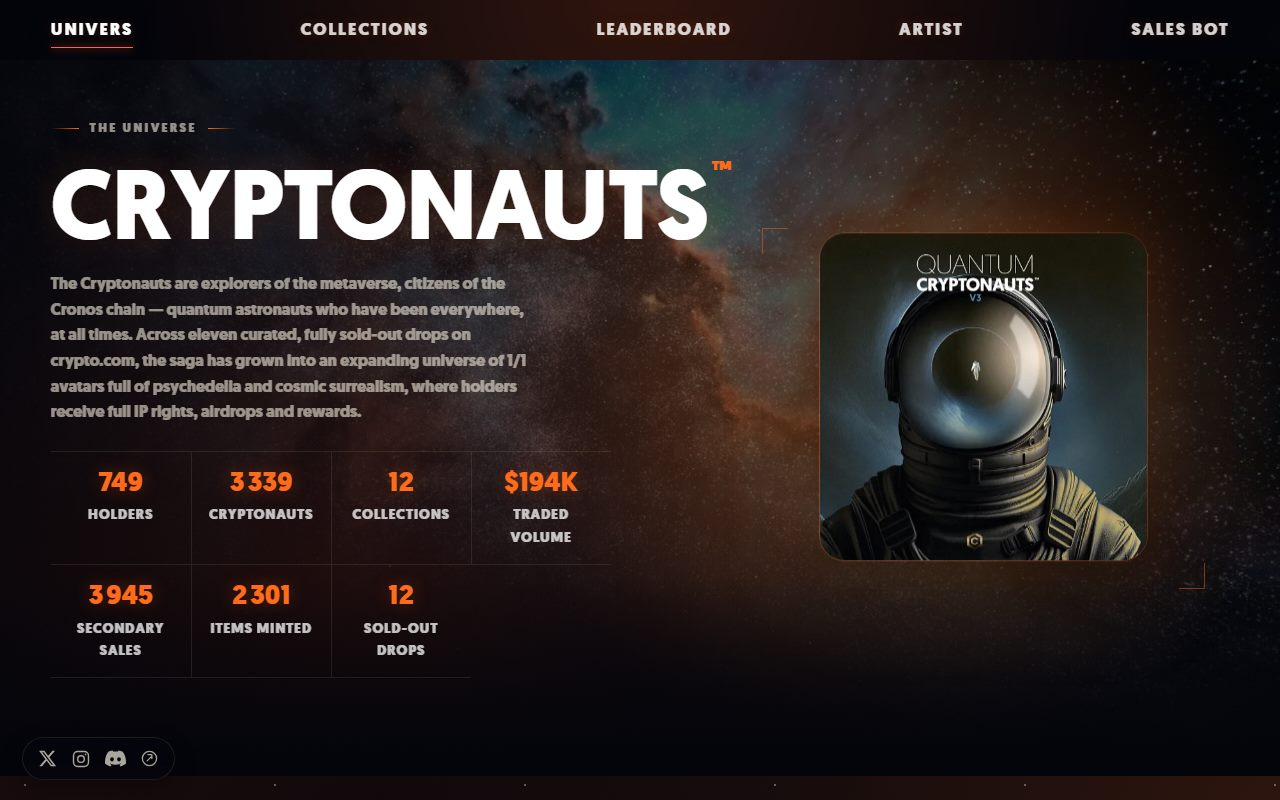
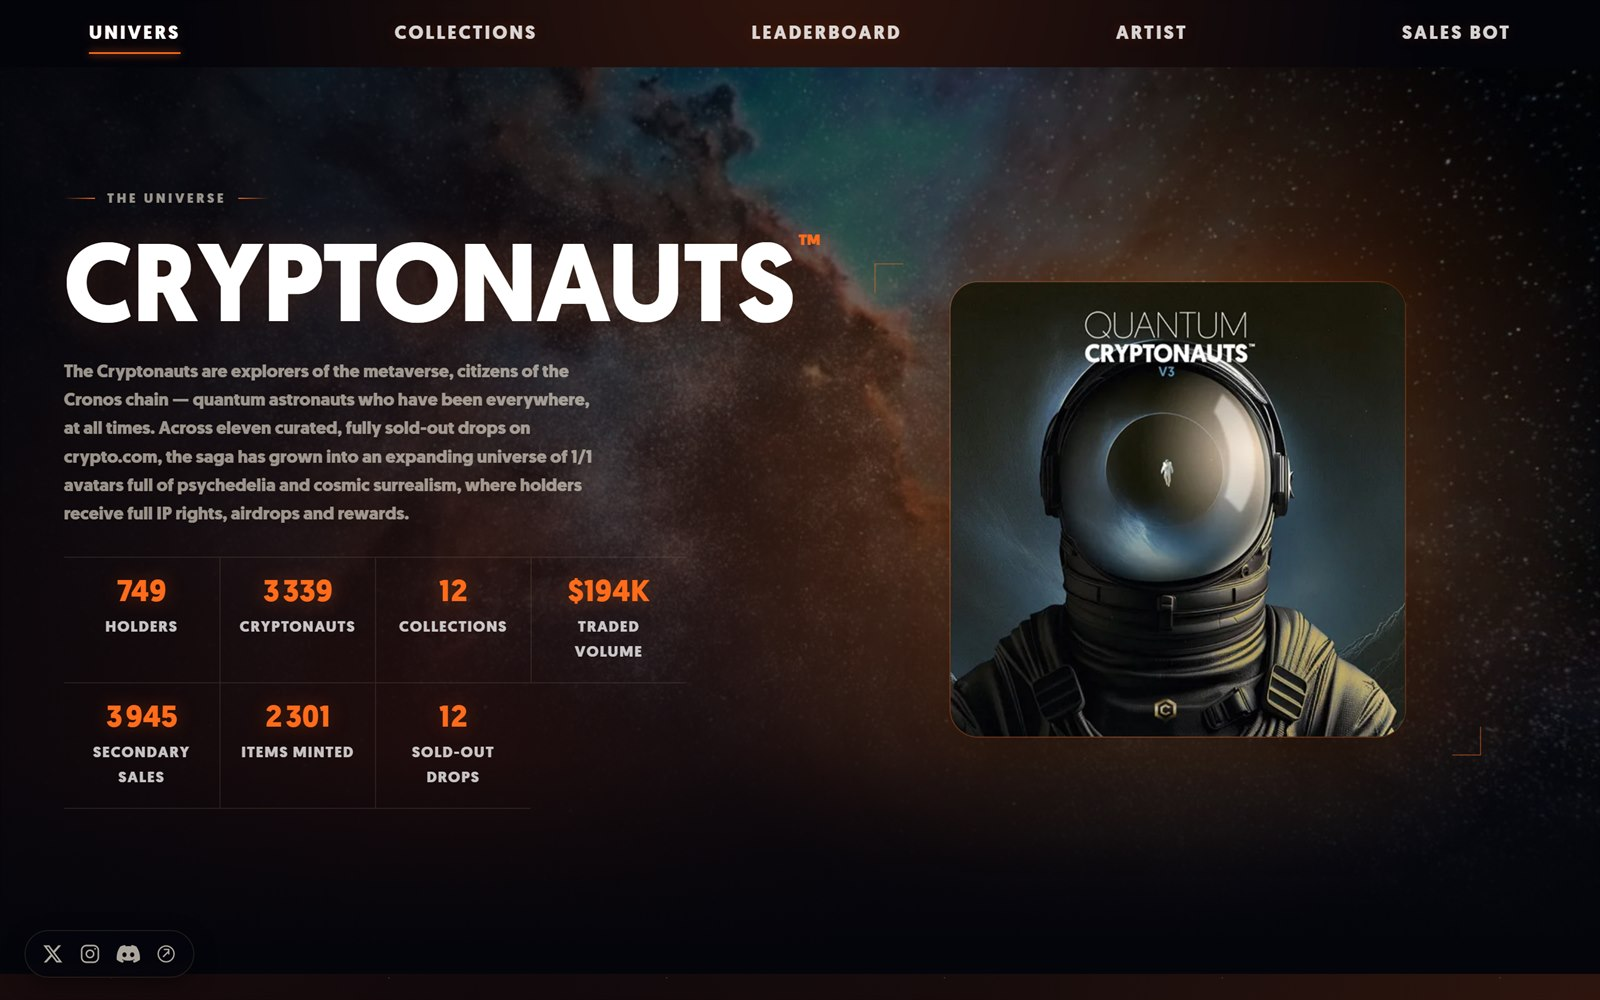
Vitrine : cadres plus realistes + captures haute resolution
- Navigateur : coins arrondis, cadenas dans la barre d'adresse, reflet.
- Telephone : frame iPhone realiste (dynamic island, boutons lateraux,
  reflet de verre, ombre douce), ratio 9/19.5.
- Images recapturees en 2x/3x (supersampling) puis reduites -> texte net
  (desktop 1600px, mobile 600px, ~100-200 Ko).

Claude-Session: https://claude.ai/code/session_0127Z73V9gsaBQEdmrtoZHUB

diff --git a/styles.css b/styles.css
@@ -1027,29 +1027,38 @@ a.project:hover .project-thumb::after, a.project:focus-visible .project-thumb::a
 .devices { position: relative; width: min(100%, 520px); margin-inline: auto; animation: scFloat 7s var(--ease) infinite; }
 
 .browser {
-  position: relative; border-radius: 14px; overflow: hidden;
-  background: linear-gradient(160deg, #18283f, #0b1422);
+  position: relative; border-radius: 13px; overflow: hidden;
+  background: linear-gradient(160deg, #1c2c44, #0b1422);
   border: 1px solid var(--border);
-  box-shadow: var(--shadow), 0 0 70px -22px rgba(56, 189, 248, 0.5);
+  box-shadow: var(--shadow), 0 0 70px -22px rgba(56, 189, 248, 0.45), inset 0 1px 0 rgba(255, 255, 255, 0.08);
 }
-.browser-bar { display: flex; align-items: center; gap: 6px; padding: 9px 12px; background: #0c1525; border-bottom: 1px solid var(--border-soft); }
-.browser-dot { width: 9px; height: 9px; border-radius: 50%; background: #2c4a72; }
+.browser-bar { position: relative; display: flex; align-items: center; gap: 7px; padding: 10px 13px; background: linear-gradient(180deg, #14223a, #0c1525); border-bottom: 1px solid var(--border-soft); }
+.browser-dot { width: 10px; height: 10px; border-radius: 50%; background: #2c4a72; box-shadow: inset 0 0 0 0.5px rgba(0, 0, 0, 0.25); }
 .browser-dot:nth-child(1) { background: #ff5f57; } .browser-dot:nth-child(2) { background: #febc2e; } .browser-dot:nth-child(3) { background: #28c840; }
-.browser-url { margin-left: 10px; font-family: var(--font-mono); font-size: 0.66rem; color: var(--text-muted); background: #0a1322; padding: 4px 14px; border-radius: 999px; max-width: 64%; overflow: hidden; text-overflow: ellipsis; white-space: nowrap; }
+.browser-url { display: inline-flex; align-items: center; gap: 6px; margin-left: 12px; font-family: var(--font-mono); font-size: 0.66rem; color: var(--text-muted); background: #0a1322; padding: 5px 16px; border-radius: 999px; max-width: 62%; overflow: hidden; text-overflow: ellipsis; white-space: nowrap; box-shadow: inset 0 0 0 1px rgba(255, 255, 255, 0.03); }
+.browser-url::before { content: ""; flex: none; width: 8px; height: 7px; border-radius: 2px; background: #35507a; box-shadow: 0 -3px 0 -1px transparent, inset 0 0 0 10px #35507a; -webkit-mask: radial-gradient(circle at 50% 2px, transparent 2.4px, #000 2.6px) top/100% 4px no-repeat, linear-gradient(#000 0 0) bottom/100% 4px no-repeat; mask: radial-gradient(circle at 50% 2px, transparent 2.4px, #000 2.6px) top/100% 4px no-repeat, linear-gradient(#000 0 0) bottom/100% 4px no-repeat; }
 .browser-screen { position: relative; aspect-ratio: 16 / 10; overflow: hidden; background: #070d18; }
 .browser-screen img { width: 100%; height: 100%; object-fit: cover; object-position: top center; display: block; }
+.browser-screen::after { content: ""; position: absolute; inset: 0; pointer-events: none; background: linear-gradient(120deg, rgba(255, 255, 255, 0.10) 0%, rgba(255, 255, 255, 0.03) 12%, transparent 26%); }
 
 .phone {
-  position: absolute; right: -4%; bottom: -13%; width: 26%; aspect-ratio: 9 / 19;
-  border-radius: 22px; padding: 6px;
-  background: linear-gradient(160deg, #1b2c47, #0a111f);
-  border: 1px solid var(--border);
-  box-shadow: 0 26px 50px -18px rgba(0, 0, 0, 0.75), 0 0 40px -16px rgba(99, 102, 241, 0.5);
+  position: absolute; right: -5%; bottom: -15%; width: 27.5%; aspect-ratio: 9 / 19.5;
+  border-radius: 12% / 5.6%; padding: 3.2%;
+  background: linear-gradient(145deg, #40485c 0%, #20252f 34%, #0c0f16 72%, #171b24 100%);
+  box-shadow: 0 34px 60px -20px rgba(0, 0, 0, 0.85), 0 8px 22px -10px rgba(0, 0, 0, 0.6),
+    inset 0 0 0 1px rgba(255, 255, 255, 0.10), inset 0 1.5px 1px rgba(255, 255, 255, 0.18);
   z-index: 3;
 }
-.phone-cam { position: absolute; top: 11px; left: 50%; transform: translateX(-50%); width: 24%; height: 5px; border-radius: 999px; background: #0a1120; z-index: 2; }
-.phone-screen { position: relative; width: 100%; height: 100%; border-radius: 17px; overflow: hidden; background: #070d18; }
+/* Boutons latéraux */
+.phone::before { content: ""; position: absolute; right: -2px; top: 27%; width: 2.5px; height: 10%; border-radius: 0 2px 2px 0; background: linear-gradient(#3a4152, #0d1017); }
+.phone::after { content: ""; position: absolute; left: -2px; top: 20%; width: 2.5px; height: 13%; border-radius: 2px 0 0 2px; background: linear-gradient(#3a4152 0%, #0d1017 22%, #0d1017 44%, #3a4152 52%, #3a4152 78%, #0d1017 100%); }
+.phone-screen { position: relative; width: 100%; height: 100%; border-radius: 8.5% / 4.4%; overflow: hidden; background: #070d18; box-shadow: inset 0 0 0 2px #04060a; }
 .phone-screen img { width: 100%; height: 100%; object-fit: cover; object-position: top center; display: block; }
+/* Dynamic island */
+.phone-island { position: absolute; top: 3.4%; left: 50%; transform: translateX(-50%); width: 34%; height: 3.4%; min-height: 9px; border-radius: 999px; background: #04060a; z-index: 3; box-shadow: inset 0 0 0 1px rgba(255, 255, 255, 0.05); }
+.phone-island::after { content: ""; position: absolute; right: 14%; top: 50%; transform: translateY(-50%); width: 22%; aspect-ratio: 1; border-radius: 50%; background: radial-gradient(circle at 40% 35%, #1b2942, #05070c 70%); }
+/* Reflet de verre */
+.phone-gloss { position: absolute; inset: 0; z-index: 2; pointer-events: none; background: linear-gradient(125deg, rgba(255, 255, 255, 0.16) 0%, rgba(255, 255, 255, 0.05) 16%, transparent 32%); }
 
 /* Fondu de contenu lors du changement de projet */
 .browser-screen img, .phone-screen img { transition: opacity 0.42s var(--ease), transform 0.42s var(--ease); }

diff --git a/index.html b/index.html
@@ -371,9 +371,10 @@
                 </div>
               </div>
               <div class="phone" aria-hidden="true">
-                <span class="phone-cam"></span>
                 <div class="phone-screen">
                   <img data-sc-mobile src="img/cryptonauts-mobile.jpg" alt="" />
+                  <span class="phone-island"></span>
+                  <span class="phone-gloss"></span>
                 </div>
               </div>
             </div>
